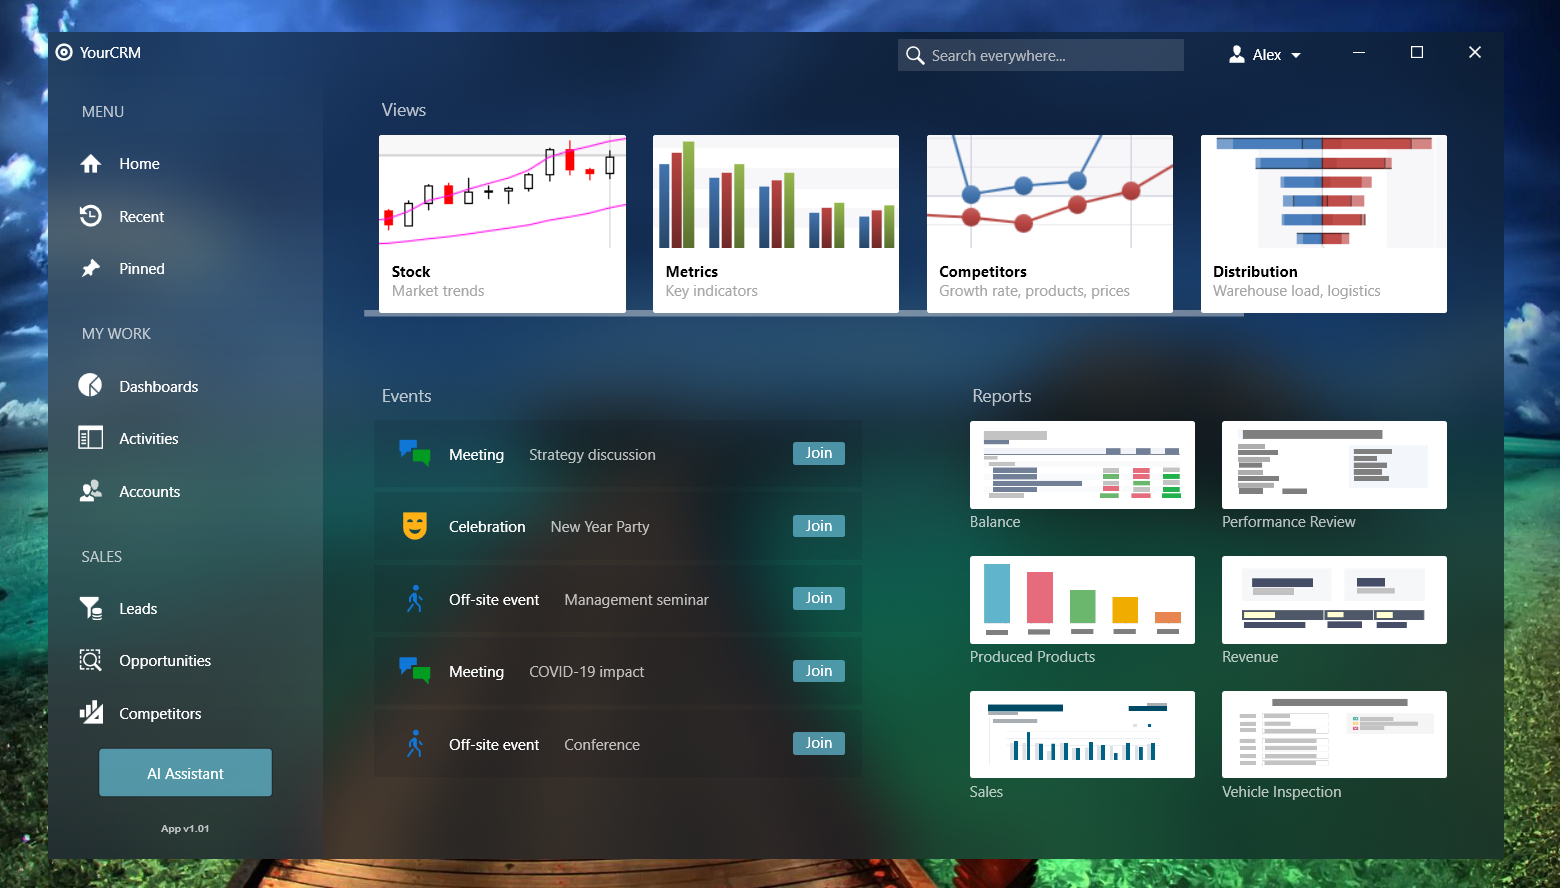
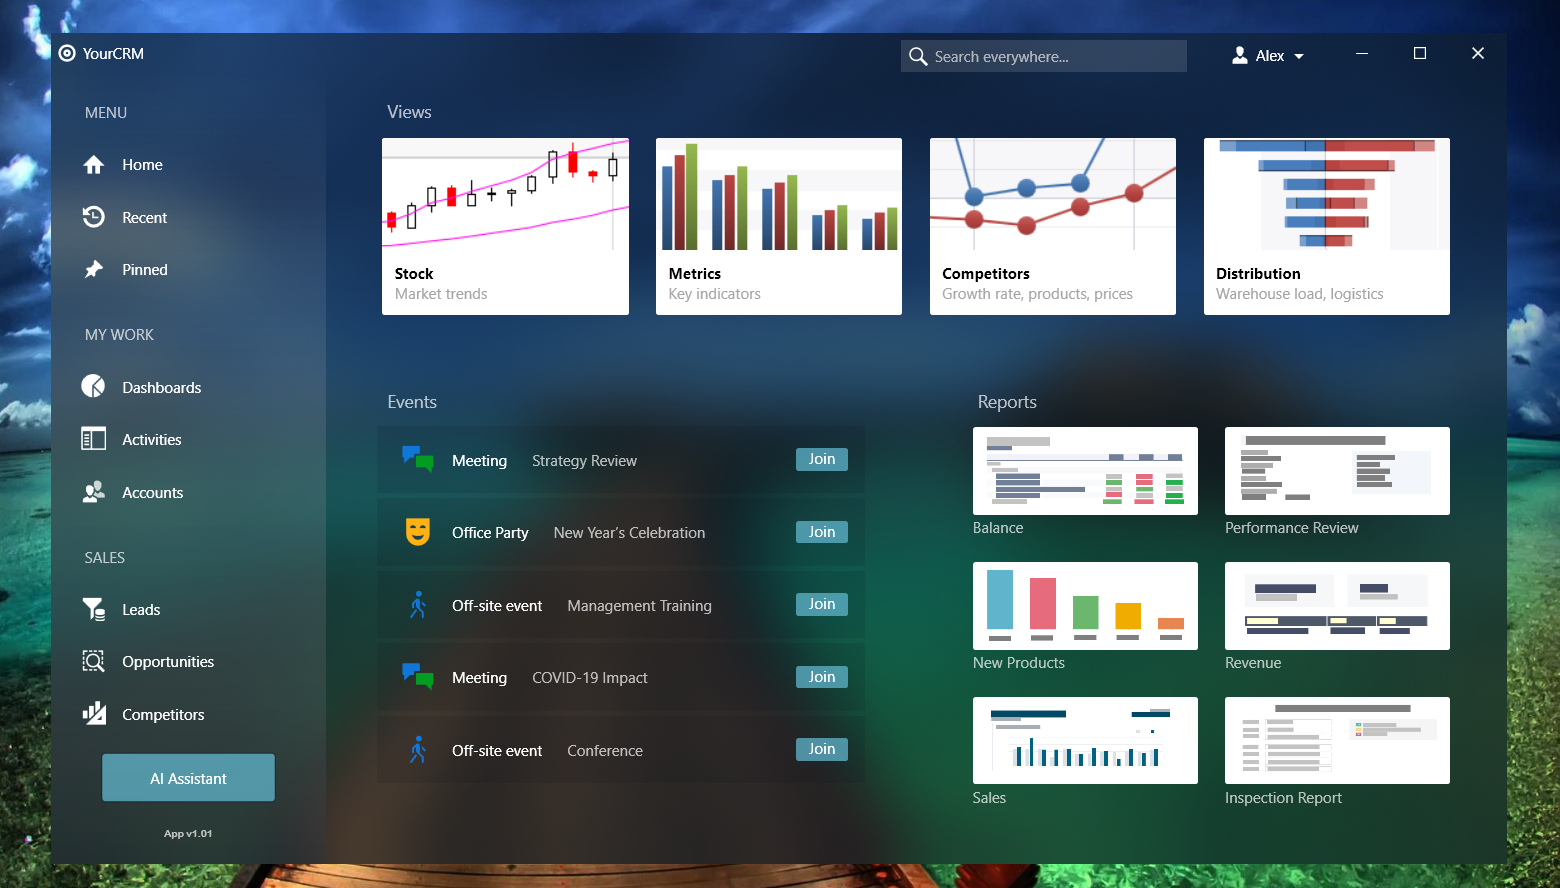
corrected strings

diff --git a/CS/FluentDesignTemplate/MainWindow.xaml b/CS/FluentDesignTemplate/MainWindow.xaml
@@ -115,7 +115,7 @@
             <GroupBox Grid.Row="1" Grid.Column="0" Header="Events" Style="{StaticResource groupBoxStyle}" >
                 <dxe:ListBoxEdit ItemsSource="{Binding Events}" Style="{StaticResource eventBoxStyle}"/>
             </GroupBox>
-            <GroupBox Grid.Row="1" Grid.Column="1" Header="Reports" Style="{StaticResource groupBoxStyle}" Padding="12,0,12,12">
+            <GroupBox Grid.Row="1" Grid.Column="1" Header="Reports" Style="{StaticResource groupBoxStyle}" Padding="6,0,6,6">
                 <dxe:ListBoxEdit ItemsSource="{Binding Reports}" Style="{StaticResource reportBoxStyle}"/>
             </GroupBox>
         </Grid>

diff --git a/CS/FluentDesignTemplate/MainViewModel.cs b/CS/FluentDesignTemplate/MainViewModel.cs
@@ -33,16 +33,16 @@ namespace FluentDesignTemplate
 
             Reports = new ObservableCollection<ReportItem>() { new ReportItem() { Header = "Balance", Image = GetImage("Balance.png") },
             new ReportItem() { Header = "Performance Review", Image = GetImage("Performance Review.png") },
-            new ReportItem() { Header = "Produced Products", Image = GetImage("Produced Products.png") },
+            new ReportItem() { Header = "New Products", Image = GetImage("Produced Products.png") },
             new ReportItem() { Header = "Revenue", Image = GetImage("Revenue.png") },
             new ReportItem() { Header = "Sales", Image = GetImage("Sales.png") },
-            new ReportItem() { Header = "Vehicle Inspection", Image = GetImage("Vehicle Inspection.png") }};
+            new ReportItem() { Header = "Inspection Report", Image = GetImage("Vehicle Inspection.png") }};
 
 
-            Events = new ObservableCollection<EventItem>() { new EventItem() { Header = "Meeting", Text = "Strategy discussion", Type = EventType.Meeting },
-            new EventItem() { Header = "Celebration", Text = "New Year Party", Type = EventType.Celebration },
-            new EventItem() { Header = "Off-site event", Text = "Management seminar", Type = EventType.OffSite },
-            new EventItem() { Header = "Meeting", Text = "COVID-19 impact", Type = EventType.Meeting },
+            Events = new ObservableCollection<EventItem>() { new EventItem() { Header = "Meeting", Text = "Strategy Review", Type = EventType.Meeting },
+            new EventItem() { Header = "Office Party", Text = "New Year’s Celebration", Type = EventType.Celebration },
+            new EventItem() { Header = "Off-site event", Text = "Management Training", Type = EventType.OffSite },
+            new EventItem() { Header = "Meeting", Text = "COVID-19 Impact", Type = EventType.Meeting },
             new EventItem() { Header = "Off-site event", Text = "Conference", Type = EventType.OffSite }};
         }
 
